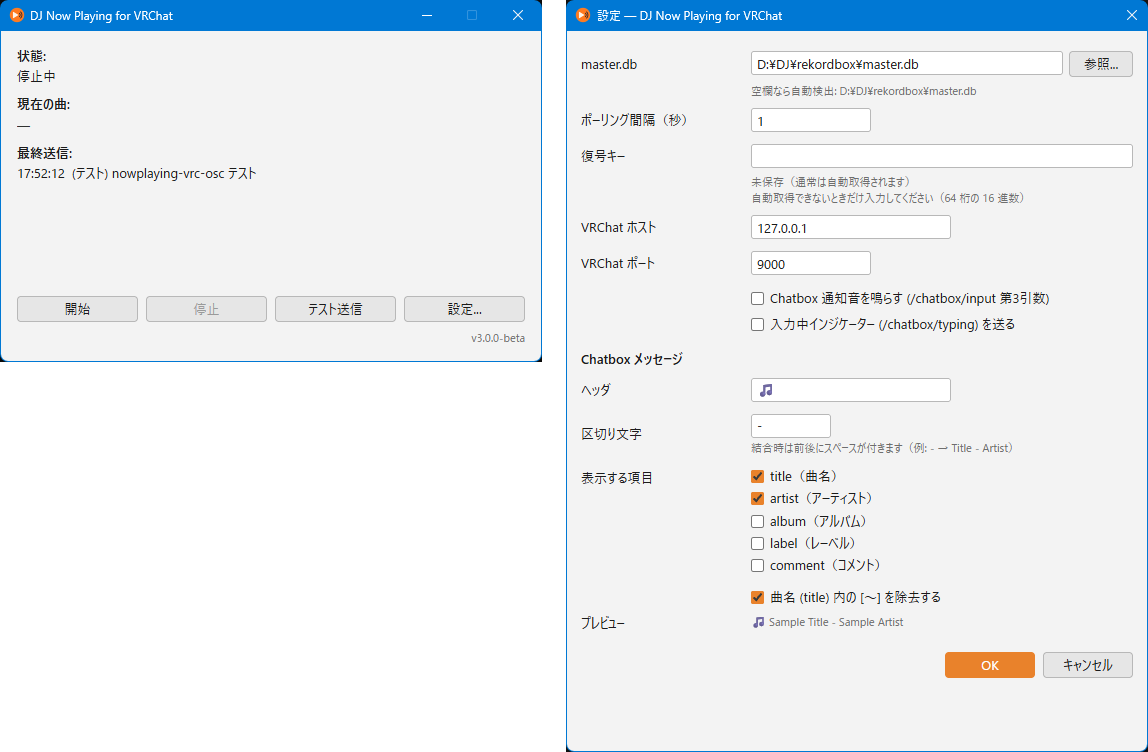
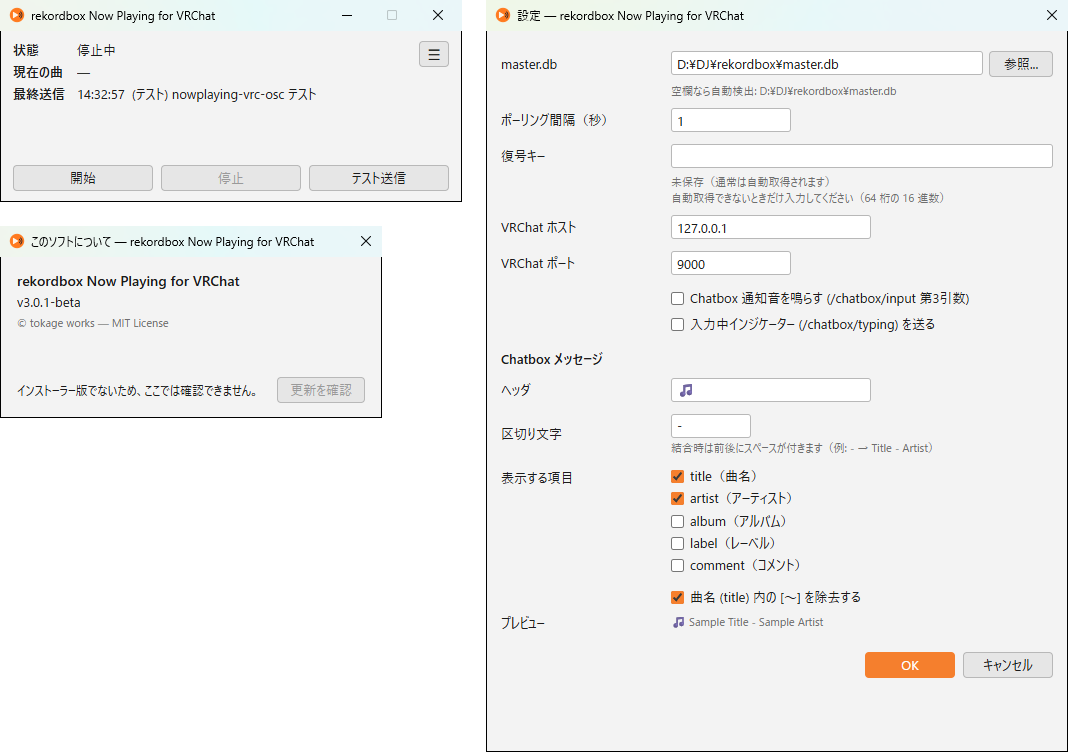
README の画面写真を 3.0.1-beta の画面で撮り直す
メイン画面、このソフトについて、設定画面を並べた写真にし、画像の説明文も合わせる。

diff --git a/README.md b/README.md
@@ -3,7 +3,7 @@
 rekordbox で再生した曲を、VRChat の Chatbox に `🎵 Title - Artist` の形で表示する Windows アプリです。
 rekordbox のデータベース（`master.db`）を読み取り専用で直接読み、OSC で VRChat に送ります。画面は日本語です。
 
-![メイン画面（状態・現在の曲・最終送信と、開始・停止・テスト送信のボタン、右上のメニュー）と、設定画面（master.db の場所、送信先、Chatbox メッセージの項目とプレビュー）](docs/images/screenshot.png)
+![メイン画面（状態・現在の曲・最終送信と、開始・停止・テスト送信のボタン、右上のメニュー）、このソフトについて（バージョンと更新の確認）、設定画面（master.db の場所、送信先、Chatbox メッセージの項目とプレビュー）](docs/images/screenshot.png)
 
 > rekordbox（AlphaTheta）、VRChat、Spotify の公式ツールではありません。自己責任でご利用ください。
 > 趣味で作っています。要望に応えられるとは限りません。不具合は [Issues](https://github.com/khlizard/nowplaying-vrc-osc/issues) で知らせてください。
